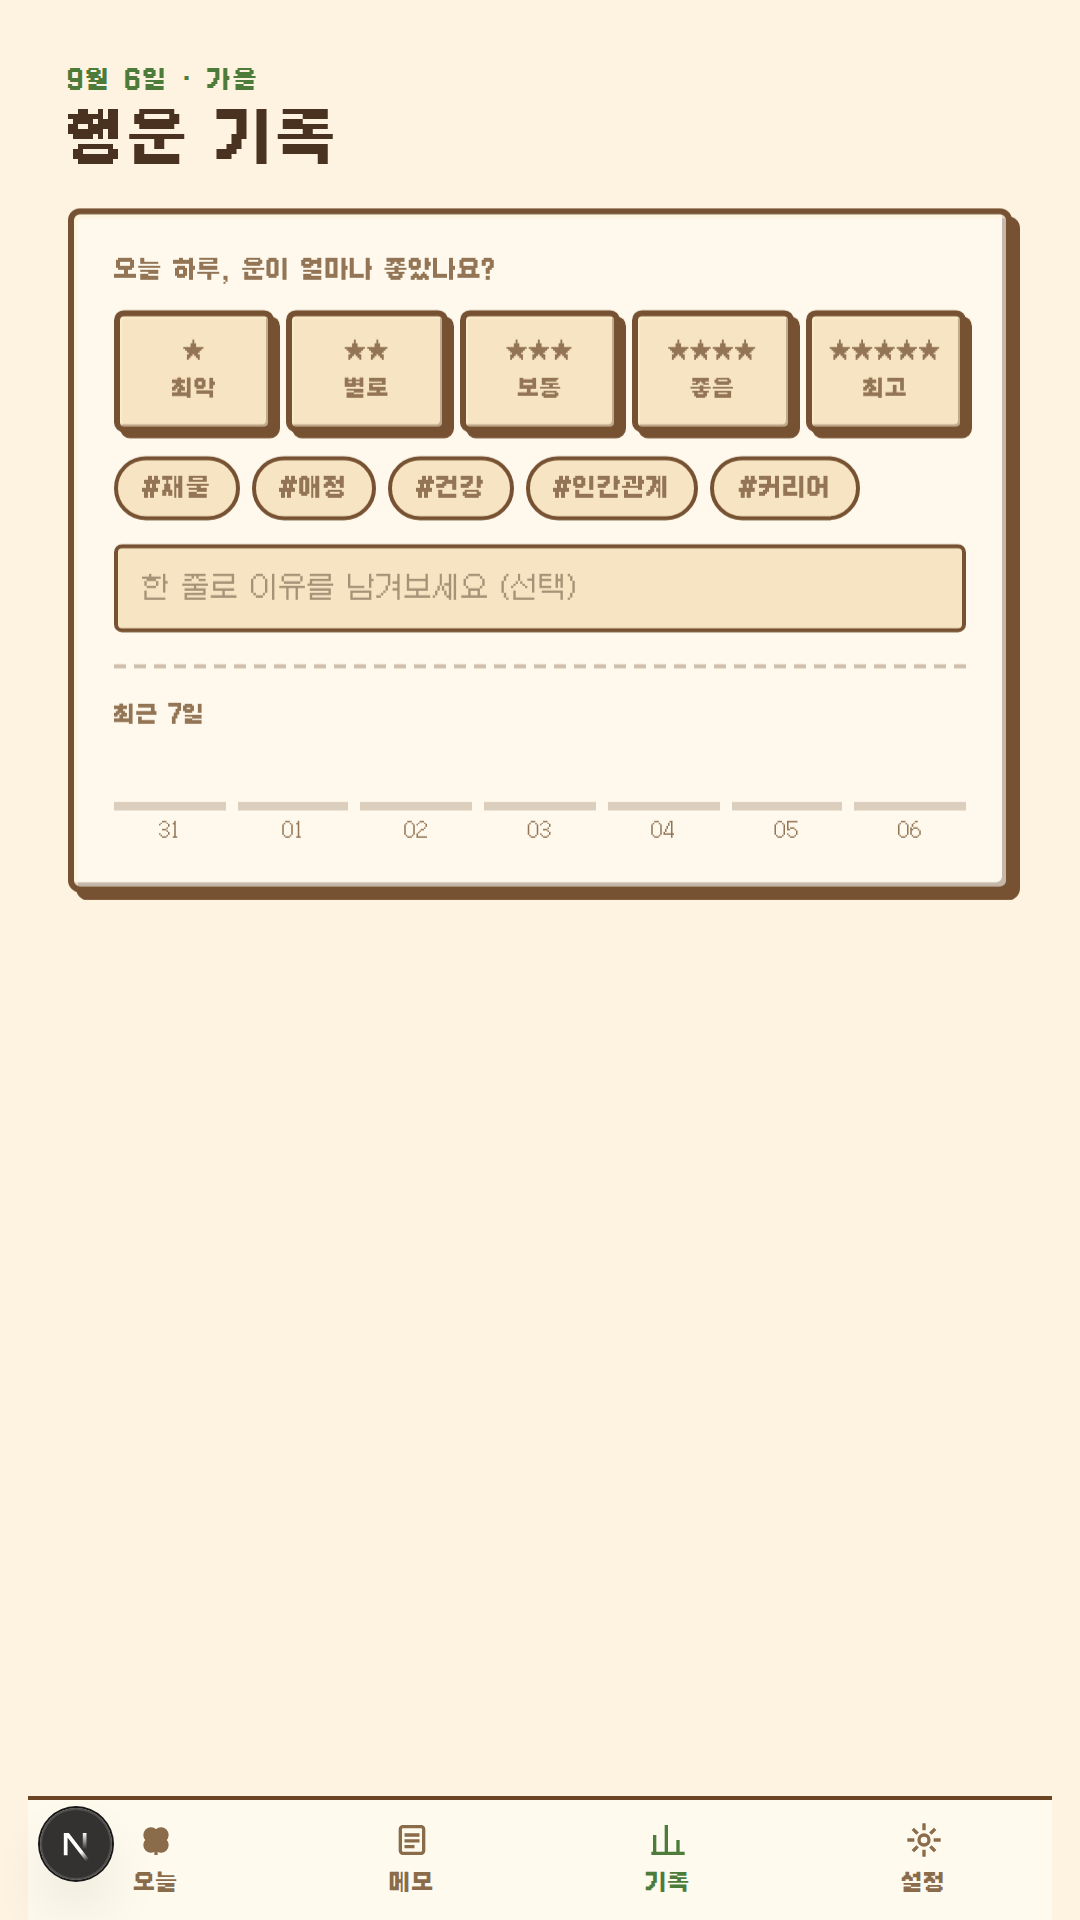
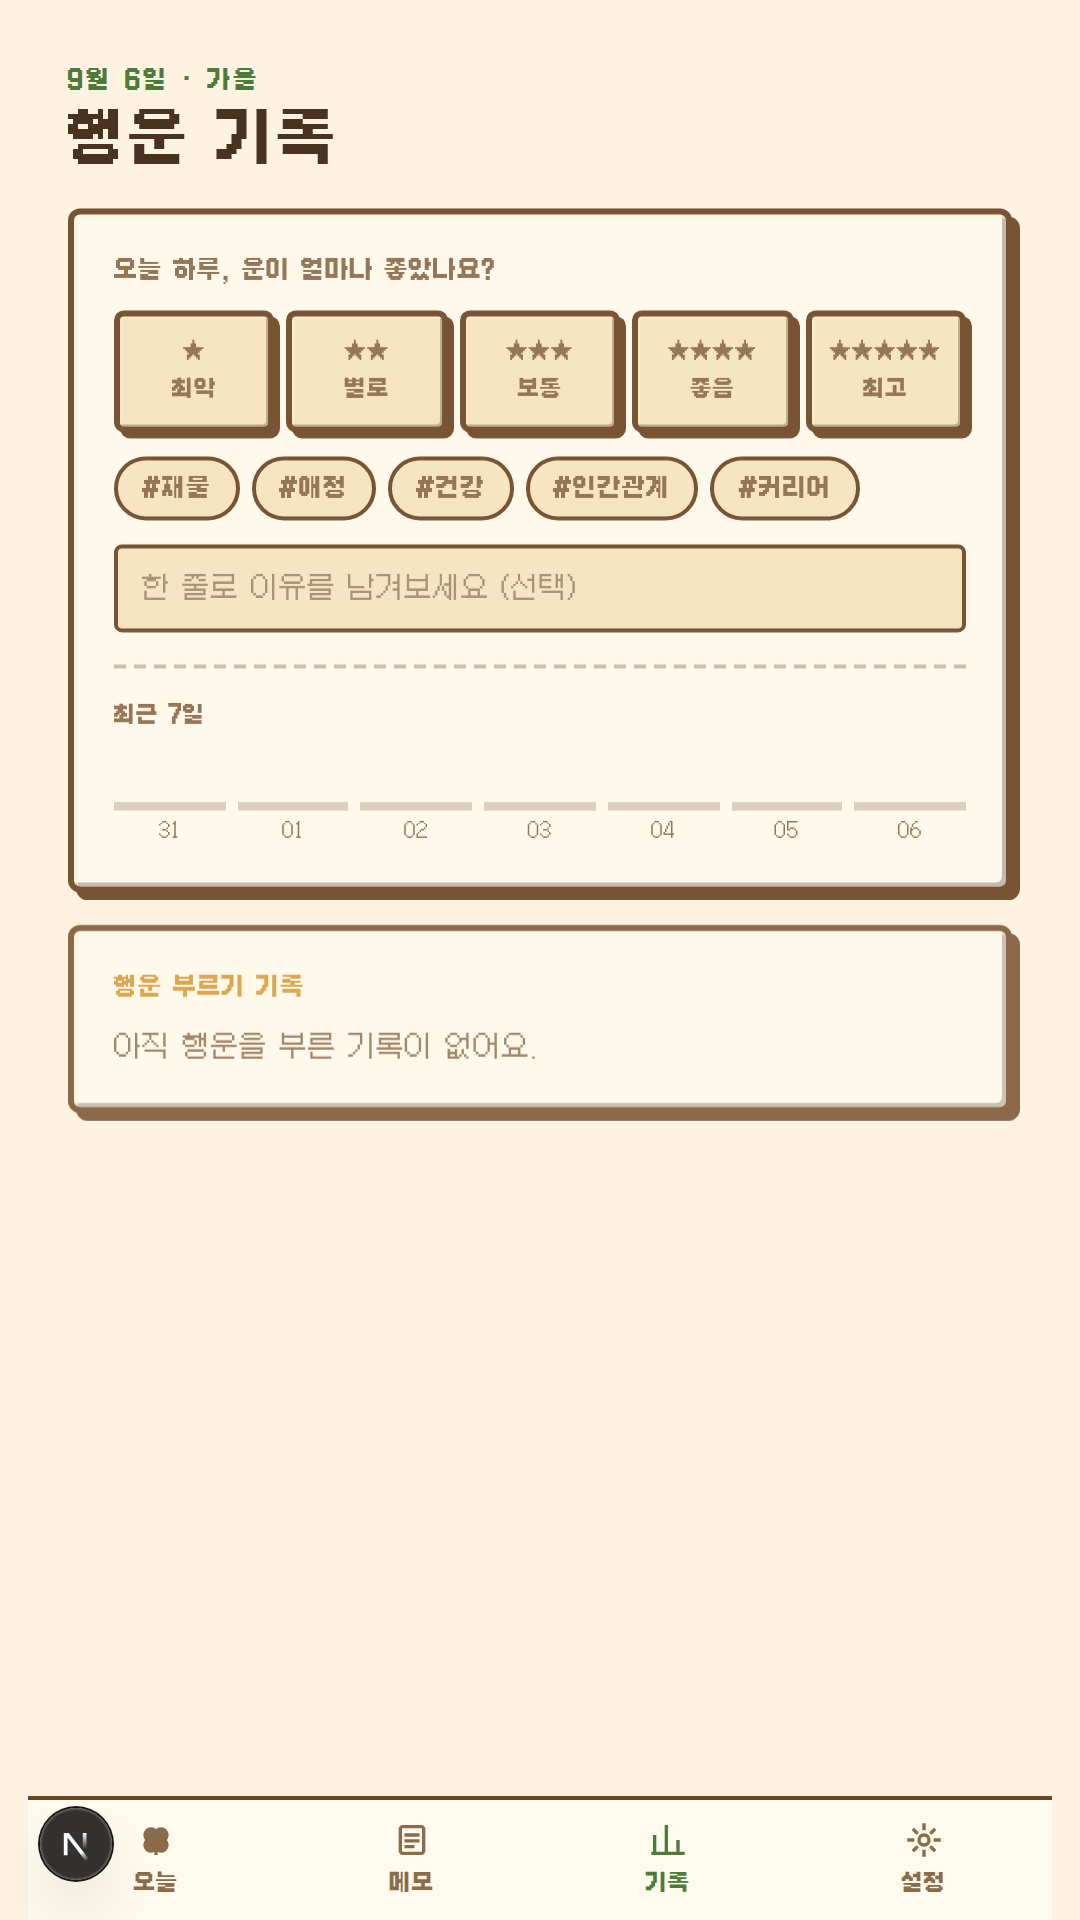
행운의 어플 — 지난 메모/행운 부르기 기록 열람 기능 추가
- lib/storage.ts: getAllMemos()/getAllCalls() — 오늘 것만 보이던 메모·행운 부르기를
  전체 날짜 기준 최신순으로 조회
- 메모 탭: 오늘의 메모 아래에 "지난 메모" 목록 추가 (날짜 + 내용, 절취선으로 구분)
- 기록 탭: 7일 히스토리 아래에 "행운 부르기 기록" 목록 추가 (날짜 + 불렀던 문구)
- 메모/행운 부르기를 저장할 때마다 두 목록을 즉시 갱신

Claude-Session: https://claude.ai/code/session_01QuVwrwWKVQ7ikTApTJqUn8

Changed region(s): [[0.0611, 0.4688, 0.9472, 0.5938]]

diff --git a/luck-app/app/page.tsx b/luck-app/app/page.tsx
@@ -8,8 +8,8 @@ import { analyzeSaju } from "@/lib/saju";
 import { getDailyLuck, getKstDateKey, type DailyLuck } from "@/lib/luckEngine";
 import {
   getProfile, saveProfile, clearProfile, getSkipOnboarding, setSkipOnboarding,
-  getMemo, setMemo as persistMemo, getLog, setLog as persistLog, getRecentLogs,
-  getCall, setCall as persistCall, exportAllData, importAllData,
+  getMemo, setMemo as persistMemo, getAllMemos, getLog, setLog as persistLog, getRecentLogs,
+  getCall, setCall as persistCall, getAllCalls, exportAllData, importAllData,
   type SajuProfile, type LuckLogEntry,
 } from "@/lib/storage";
 
@@ -55,6 +55,12 @@ function last7Dates(): string[] {
     out.push(d.toISOString().slice(0, 10));
   }
   return out;
+}
+
+// "2026-09-06" → "9월 6일" — 오늘이 아닌 과거 날짜도 표시할 때 씀
+function formatDateLabel(dateKey: string): string {
+  const [, m, d] = dateKey.split("-");
+  return `${Number(m)}월 ${Number(d)}일`;
 }
 
 async function toSolar(profile: SajuProfile): Promise<{ y: number; m: number; d: number }> {
@@ -122,6 +128,9 @@ export default function HomePage() {
   const [callSubmitted, setCallSubmitted] = useState(false);
   const [callJustSaved, setCallJustSaved] = useState(false);
 
+  const [pastMemos, setPastMemos] = useState<{ date: string; content: string }[]>([]);
+  const [pastCalls, setPastCalls] = useState<{ date: string; text: string }[]>([]);
+
   useEffect(() => {
     const p = getProfile();
     setProfile(p);
@@ -139,6 +148,8 @@ export default function HomePage() {
     const savedCall = getCall(dateKey);
     setCallInput(savedCall);
     setCallSubmitted(!!savedCall);
+    setPastMemos(getAllMemos());
+    setPastCalls(getAllCalls());
   }, [ready, dateKey]);
 
   useEffect(() => {
@@ -162,7 +173,11 @@ export default function HomePage() {
     setMemoState(v);
     setMemoSaved(false);
     if (memoTimer.current) clearTimeout(memoTimer.current);
-    memoTimer.current = setTimeout(() => { persistMemo(dateKey, v); setMemoSaved(true); }, 600);
+    memoTimer.current = setTimeout(() => {
+      persistMemo(dateKey, v);
+      setMemoSaved(true);
+      setPastMemos(getAllMemos());
+    }, 600);
   }
 
   function submitLog(r: number, nextTags = tags, nextNote = note) {
@@ -177,6 +192,7 @@ export default function HomePage() {
     persistCall(dateKey, callInput.trim());
     setCallSubmitted(true);
     setCallJustSaved(true);
+    setPastCalls(getAllCalls());
     setTimeout(() => setCallJustSaved(false), 2200);
   }
 
@@ -413,11 +429,30 @@ export default function HomePage() {
                 </div>
                 <textarea
                   value={memo} onChange={(e) => onMemoChange(e.target.value)}
-                  placeholder="오늘 있었던 일, 떠오른 생각을 자유롭게 남겨보세요." rows={10} maxLength={2000}
+                  placeholder="오늘 있었던 일, 떠오른 생각을 자유롭게 남겨보세요." rows={8} maxLength={2000}
                   className="w-full text-sm rounded p-3 resize-none focus:outline-none"
                   style={{ background: "var(--bg-soft)", border: "2px solid var(--card-border)", color: "var(--ink)" }}
                 />
               </Card>
+            </FadeIn>
+
+            <FadeIn delay={40}>
+              <div className="retro-card p-5 mt-4">
+                <p className="text-xs font-bold mb-3" style={{ color: "var(--ink-soft)" }}>지난 메모</p>
+                {pastMemos.filter((m) => m.date !== dateKey).length === 0 ? (
+                  <p className="text-sm" style={{ color: "var(--ink-soft)" }}>아직 지난 메모가 없어요.</p>
+                ) : (
+                  <div className="space-y-3 max-h-96 overflow-y-auto pr-1">
+                    {pastMemos.filter((m) => m.date !== dateKey).map((m, i, arr) => (
+                      <div key={m.date}>
+                        <p className="text-[11px] font-bold mb-1" style={{ color: "var(--clover)" }}>{formatDateLabel(m.date)}</p>
+                        <p className="text-sm whitespace-pre-wrap leading-relaxed" style={{ color: "var(--ink)" }}>{m.content}</p>
+                        {i < arr.length - 1 && <Perforation />}
+                      </div>
+                    ))}
+                  </div>
+                )}
+              </div>
             </FadeIn>
           </div>
         )}
@@ -480,6 +515,24 @@ export default function HomePage() {
                   })}
                 </div>
               </Card>
+            </FadeIn>
+
+            <FadeIn delay={40}>
+              <div className="retro-card p-5 mt-4">
+                <p className="text-xs font-bold mb-3" style={{ color: "var(--amber)" }}>행운 부르기 기록</p>
+                {pastCalls.length === 0 ? (
+                  <p className="text-sm" style={{ color: "var(--ink-soft)" }}>아직 행운을 부른 기록이 없어요.</p>
+                ) : (
+                  <div className="space-y-2.5 max-h-72 overflow-y-auto pr-1">
+                    {pastCalls.map((c) => (
+                      <div key={c.date} className="flex items-baseline gap-2">
+                        <span className="text-[11px] font-bold shrink-0" style={{ color: "var(--ink-soft)" }}>{formatDateLabel(c.date)}</span>
+                        <span className="text-sm" style={{ color: "var(--ink)" }}>&ldquo;{c.text}&rdquo;</span>
+                      </div>
+                    ))}
+                  </div>
+                )}
+              </div>
             </FadeIn>
           </div>
         )}

diff --git a/luck-app/lib/storage.ts b/luck-app/lib/storage.ts
@@ -78,6 +78,15 @@ export function setMemo(date: string, content: string): void {
   writeJson(MEMO_KEY, memos);
 }
 
+// 지금까지 쓴 모든 메모를 최신순으로 반환 (빈 메모는 제외)
+export function getAllMemos(): { date: string; content: string }[] {
+  const memos = readJson<Record<string, string>>(MEMO_KEY, {});
+  return Object.entries(memos)
+    .filter(([, content]) => content.trim().length > 0)
+    .sort(([a], [b]) => (a < b ? 1 : -1))
+    .map(([date, content]) => ({ date, content }));
+}
+
 // ── 하루 행운 기록 ────────────────────────────────────────────────────────
 export function getLog(date: string): LuckLogEntry | null {
   return readJson<Record<string, LuckLogEntry>>(LOG_KEY, {})[date] ?? null;
@@ -105,6 +114,15 @@ export function setCall(date: string, text: string): void {
   const calls = readJson<Record<string, string>>(CALL_KEY, {});
   calls[date] = text;
   writeJson(CALL_KEY, calls);
+}
+
+// 지금까지 불러본 모든 "행운 부르기" 문구를 최신순으로 반환
+export function getAllCalls(): { date: string; text: string }[] {
+  const calls = readJson<Record<string, string>>(CALL_KEY, {});
+  return Object.entries(calls)
+    .filter(([, text]) => text.trim().length > 0)
+    .sort(([a], [b]) => (a < b ? 1 : -1))
+    .map(([date, text]) => ({ date, text }));
 }
 
 // ── 백업/복원 ───────────────────────────────────────────────────────────
